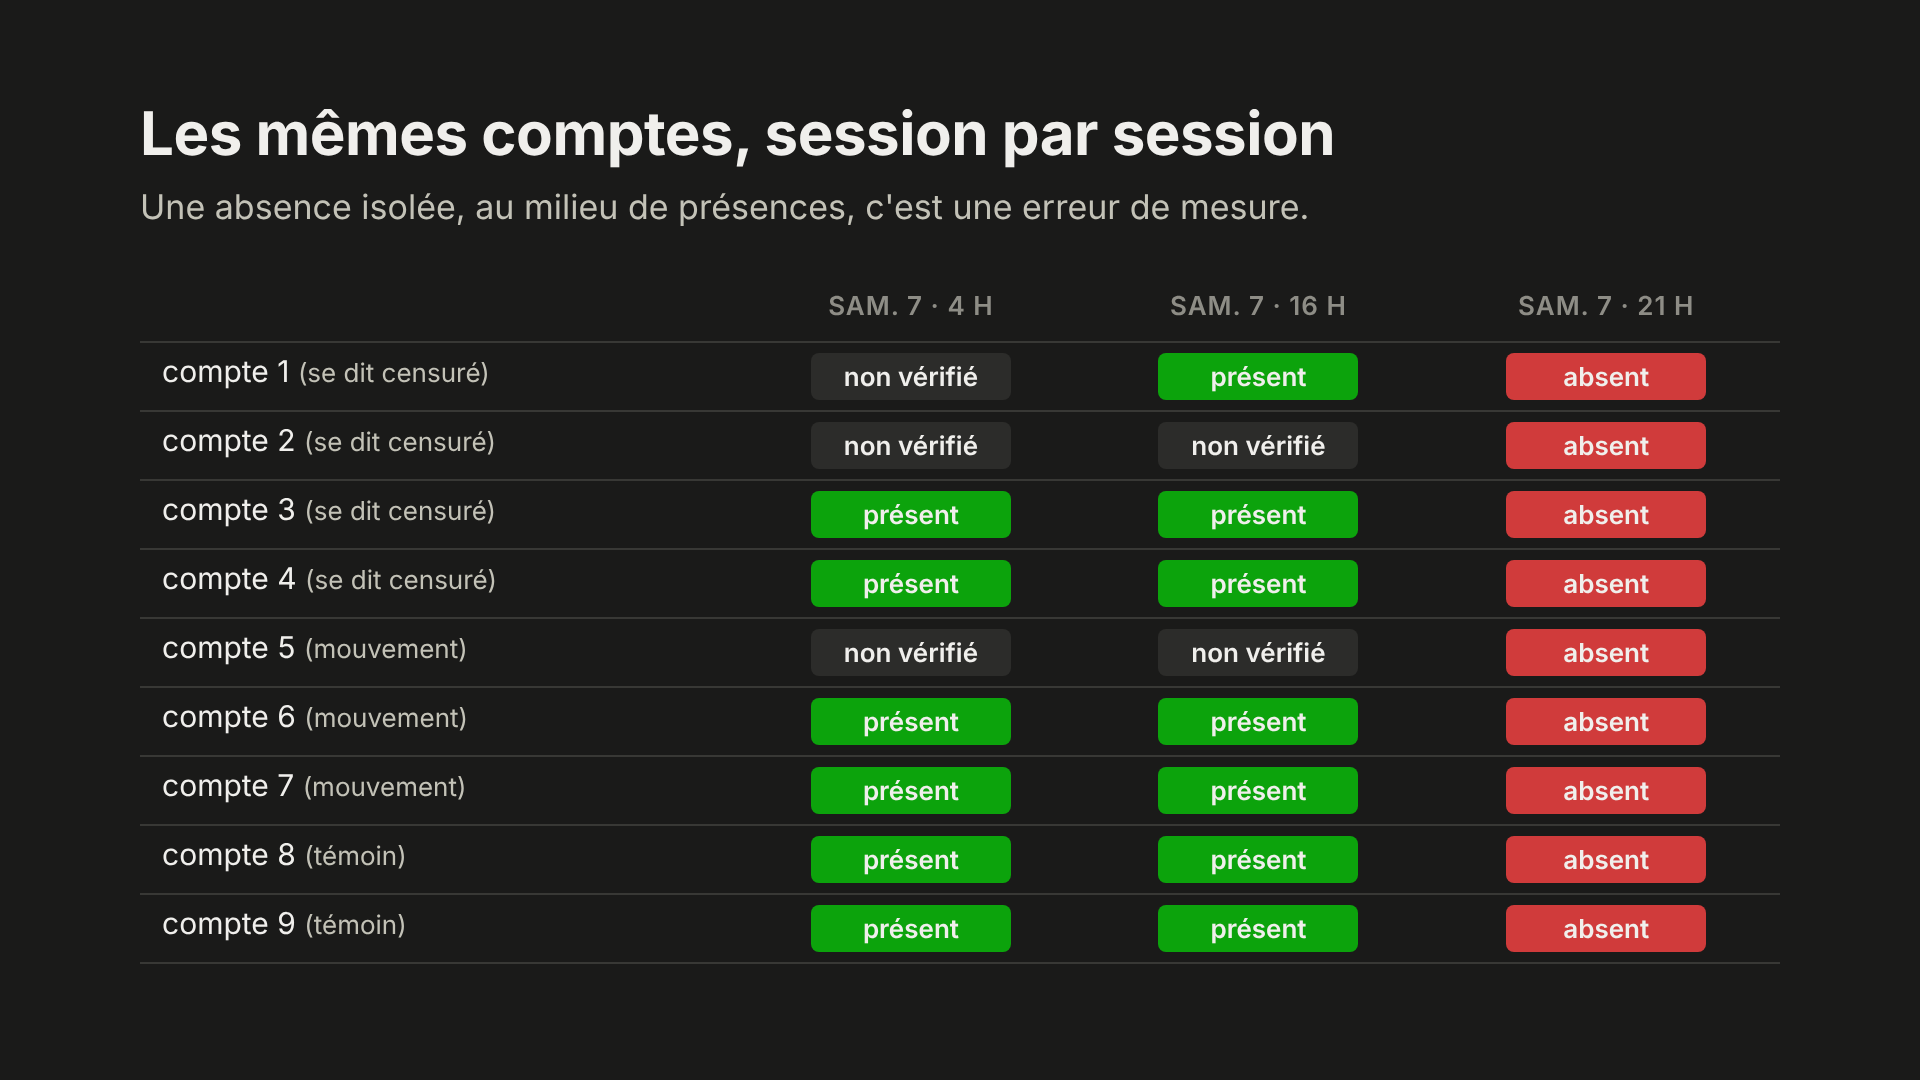
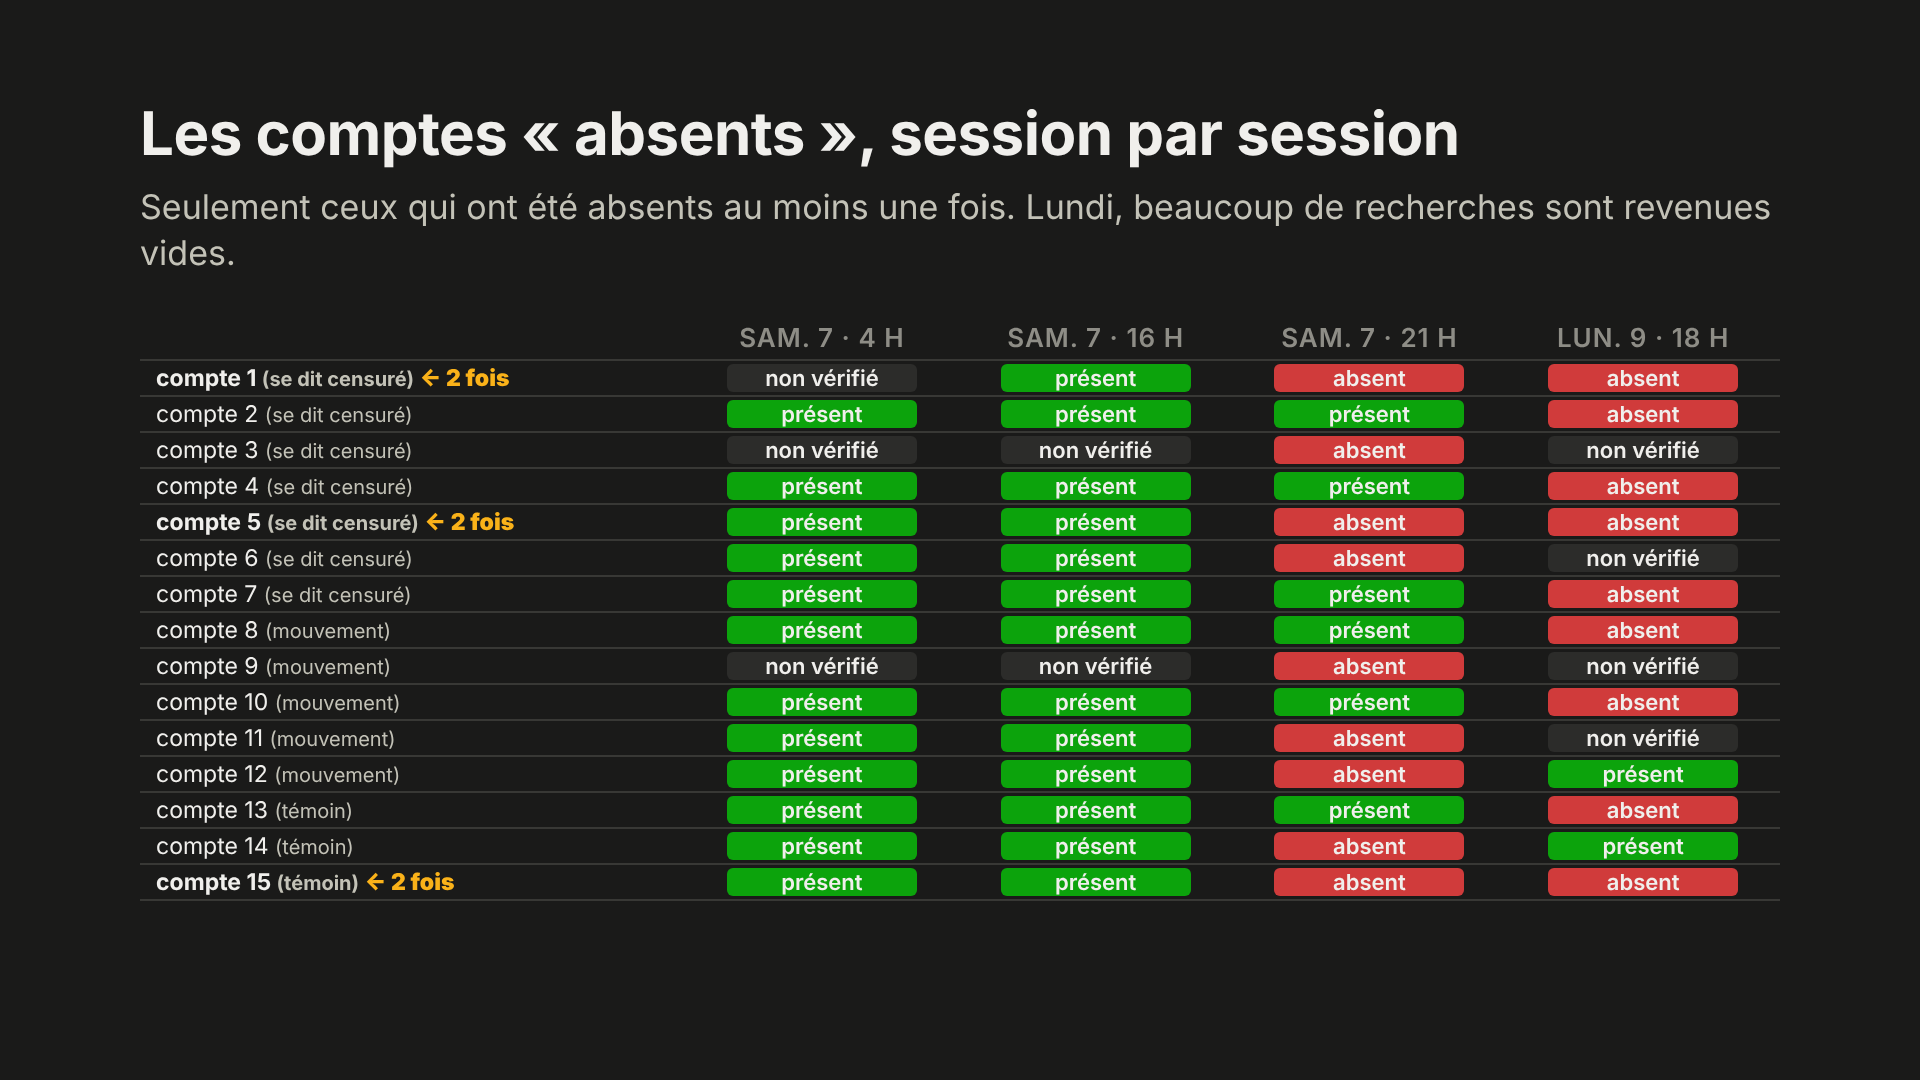
T6 : grille des 4 sessions (absences seulement dans les sessions longues) ; script et journal
Claude-Session: https://claude.ai/code/session_01UL65wsaHwCpXeakEcEBXrf

Changed region(s): [[0.0625, 0.275, 0.9062, 0.8861], [0.125, 0.0917, 0.7812, 0.1528], [0.0625, 0.1833, 0.9375, 0.2444]]

diff --git a/video/graphiques/fabriquer.py b/video/graphiques/fabriquer.py
@@ -696,15 +696,19 @@ def t6_grille(d):
     noms, comptes = sess["sessions"], sess["comptes"]
     sym = {"present": (C["ok"], "présent"), "absent": (C["bloque"], "absent"), "partiel": (C["bloque"], "absent"),
            "non_verifie": (C["vide"], "non vérifié")}
-    entetes = "".join(f"<th style='text-align:center'>{n}</th>" for n in noms)
+    entetes = "".join(f"<th style='text-align:center;padding:6px'>{n}</th>" for n in noms)
     lignes = ""
     for i, c in enumerate(comptes):
-        cells = "".join(f"<td style='text-align:center;padding:10px'><span style='display:inline-block;width:200px;padding:8px 0;border-radius:8px;"
-                        f"background:{sym[e][0]};font-size:26px;font-weight:600'>{sym[e][1]}</span></td>" for e in c["etats"])
+        repete = sum(e in ("absent", "partiel") for e in c["etats"]) >= 2
+        cells = "".join(f"<td style='text-align:center;padding:3px'><span style='display:inline-block;width:190px;padding:1px 0;"
+                        f"border-radius:6px;background:{sym[e][0]};font-size:22px;font-weight:600'>{sym[e][1]}</span></td>" for e in c["etats"])
         g = {'temoin': 'témoin', 'revendication': 'se dit censuré'}.get(c['groupe'], c['groupe'])
-        lignes += f"<tr><td style='padding:10px 22px'>compte {i + 1} <span class='d' style='font-size:26px'>({g})</span></td>{cells}</tr>"
-    corps = f"<table class='t' style='font-size:30px'><tr><th></th>{entetes}</tr>{lignes}</table>"
-    return page(corps, titre="Les mêmes comptes, session par session", sous="Une absence isolée, au milieu de présences, c'est une erreur de mesure.")
+        marque = f" <b style='color:{C['signal']}'>← 2 fois</b>" if repete else ""
+        lignes += (f"<tr><td style='padding:3px 16px;{'font-weight:700' if repete else ''}'>compte {i + 1} "
+                   f"<span class='d' style='font-size:20px'>({g})</span>{marque}</td>{cells}</tr>")
+    corps = f"<table class='t' style='font-size:23px'><tr><th></th>{entetes}</tr>{lignes}</table>"
+    return page(corps, titre="Les comptes « absents », session par session",
+                sous="Seulement ceux qui ont été absents au moins une fois. Lundi, beaucoup de recherches sont revenues vides.")
 
 
 @graphique("S09_G09c")

diff --git a/video/JOURNAL_DE_BORD.md b/video/JOURNAL_DE_BORD.md
@@ -92,6 +92,7 @@
   - **Honnêteté** : cette règle a été écrite après avoir vu le résultat. On le dit, on montre les deux versions, et la session de lundi soir servira de vérification indépendante. → séquence 9 : « mon outil a cru voir un shadowban, voilà pourquoi ce n'en était pas un »
 - **Mardi 10 novembre : session T6/T7 n°4 (lundi soir) et T7 TikTok** (30 créateurs du mouvement et 10 témoins, à la main avec Zeeschuimer). 10 recherches X reviennent vides, dont deux comptes de foot (témoins).
   - **T6, toutes sessions (4)** : l'outil dit **DÉTECTÉ, 3 comptes absents dans au moins 2 sessions** : 2 comptes qui se disent censurés sur 14, **1 témoin** sur 10, 0 compte du mouvement sur 13. Même taux chez les témoins (Fisher p = 1). Les recherches vides sont fréquentes (6 samedi soir, 10 lundi, sur une quarantaine de comptes), et un compte de foot apparaît dans les deux listes. **On ne change pas la règle une seconde fois** : le verdict reste tel quel, avec la comparaison aux témoins ajoutée (même principe que T2). Lecture : pas plus que chez les témoins ; et un éventuel filtre serait celui de X, sans indice d'une demande de l'État. → séquence 9
+  - **Grille session par session** (calculée sur le Mac, sans pseudo, `grille_t6.json`) : 15 comptes ont été absents au moins une fois, et **toutes ces absences tombent dans les deux sessions longues** (samedi 21 h et lundi 18 h, défilement poussé), **aucune** dans les deux premières (samedi 4 h et 16 h). L'effet vient de la session (limitation de X quand on enchaîne beaucoup de pages), pas des comptes. → séquence 9, graphique `S09_G09b`
   - **T7, X** : comptes du mouvement ×2,50 (12 comptes, 2 sous 1, p = 0,039, donc significatif **dans le sens « plus vus »**) ; comptes qui se disent censurés ×1,18 (13 comptes, 6 sous 1, p = 1). **Rien détecté.**
   - **T7, TikTok** : enfin testable, avec 25 comptes comparables : ×1,35, 8 sous 1, p = 0,11. **Rien détecté.**
 - **T7, X** : avec la session du soir, 11 comptes du mouvement deviennent comparables. Leurs posts sur le mouvement sont en fait **plus** vus que leurs autres posts (rapport médian 1,76, p = 0,55 ; pour les comptes qui se disent censurés, 2,46). **Rien détecté.** T7 TikTok : toujours 7 comptes, non testable avant la session de lundi soir.

diff --git a/video/SCRIPT.md b/video/SCRIPT.md
@@ -332,6 +332,10 @@
 > Alors j'ai corrigé la règle : on compare les trois derniers jours, et un compte n'est « absent » que s'il l'est dans deux sessions. Je vous le dis franchement : cette règle, je l'ai écrite après avoir vu le résultat. C'est pour ça que j'ai refait une session le lundi, pour vérifier avec la nouvelle règle.
 > Et là, surprise : 3 comptes sont absents dans deux sessions. Deux comptes qui disent être censurés… et un de mes témoins, qui n'a rien à voir avec le mouvement.
 > Deux sur quatorze d'un côté, un sur dix de l'autre : c'est le même taux. Sur X, les recherches qui reviennent vides sont si fréquentes qu'en quatre sessions, certains comptes tombent dessus deux fois, par hasard. Mon témoin en est la preuve.
+
+🎥 La grille session par session (`S09_G09b`) : les deux premières colonnes toutes vertes, les deux dernières tachées de rouge.
+
+> Et regardez où tombent les absences : uniquement dans les deux sessions les plus longues, celles où je faisais défiler beaucoup plus loin. Jamais dans les deux premières. Ce n'est pas le compte qui pose problème, c'est la session.
 > Et cette fois, je n'ai pas changé la règle : je vous montre le résultat tel quel, à côté du témoin. Verdict : pas plus d'absents chez ceux qui se disent censurés que chez mes témoins. Et si ces deux comptes sont vraiment filtrés, X le fait avec ses propres filtres automatiques, contre le spam par exemple. Rien n'indique une demande de l'État.
 
 🎙 **Expérience 5 : les vues des posts sur la manif (T7)**

diff --git a/video/PLANS.md b/video/PLANS.md
@@ -192,7 +192,7 @@
 
 - Quand un code a des lettres (`S03_G01a` à `S03_G01f`, `S06_G04a` à `d`…), ce sont les **étapes d'une animation** : pose-les à la suite dans Resolve, avec un fondu enchaîné court (6 images) entre chaque.
 - Pour les refaire après de nouvelles données (session T6 de lundi, par exemple) : `python3 video/graphiques/fabriquer.py --help` (options : mesures, épisodes, base DSA, sessions T6).
-- `S09_G09c` (T6) et `S09_G10` (T7) sont à jour avec la session de lundi. **Il reste** `S09_G09b` (la grille session par session), à refaire quand j'aurai les exports de lundi.
+- `S09_G09c` (T6) et `S09_G10` (T7) sont à jour avec la session de lundi. `S09_G09b` (la grille session par session) est à jour avec les 4 sessions.
 
 ## Ce qui manque encore dans le script avant de tourner
 
